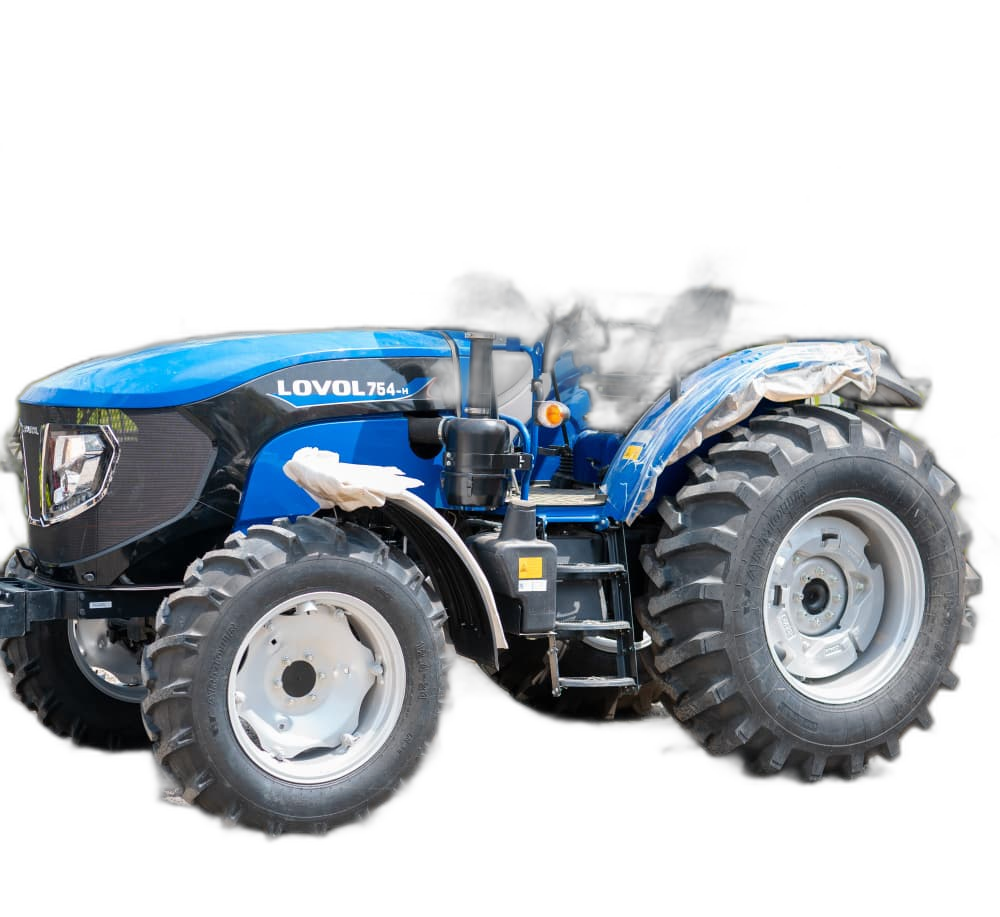
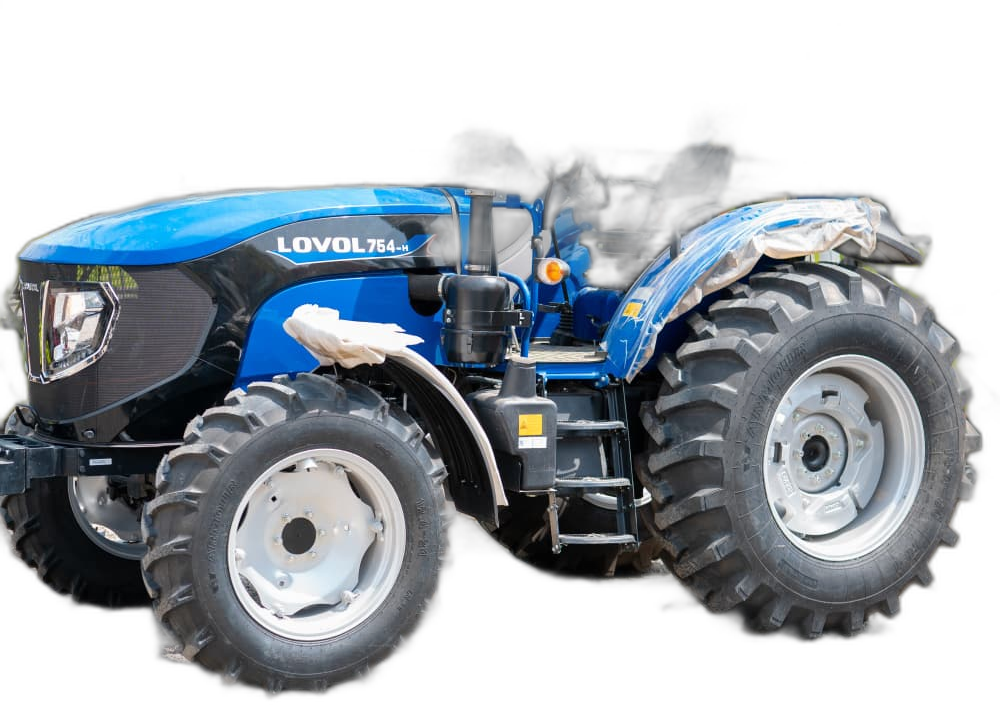
design: increase machinery slideshow size, use red active indicator, and set cleaner aerial background image to avoid tractor clashes

diff --git a/frontend/src/screens/Home.js b/frontend/src/screens/Home.js
@@ -95,7 +95,7 @@ export function renderHomeScreen() {
     .hero-visual {
       position: relative;
       width: 100%;
-      height: 420px;
+      height: 480px;
       display: flex;
       justify-content: center;
       align-items: center;
@@ -103,8 +103,8 @@ export function renderHomeScreen() {
     
     .machinery-shadow {
       position: absolute;
-      bottom: 25px;
-      width: 85%;
+      bottom: 10px;
+      width: 90%;
       height: 25px;
       background: radial-gradient(ellipse, rgba(59, 130, 246, 0.45) 0%, rgba(3, 7, 18, 0) 70%);
       filter: blur(8px);
@@ -114,8 +114,8 @@ export function renderHomeScreen() {
     
     .visual-slide {
       position: absolute;
-      width: 100%;
-      max-width: 520px;
+      width: 110%;
+      max-width: 640px;
       height: auto;
       object-fit: contain;
       opacity: 0;
@@ -167,8 +167,8 @@ export function renderHomeScreen() {
     }
     
     .view-dot:hover, .view-dot.active {
-      color: #3b82f6;
-      text-shadow: 0 0 8px rgba(59, 130, 246, 0.6);
+      color: #dc2626;
+      text-shadow: 0 0 8px rgba(220, 38, 38, 0.6);
     }
     
     /* Action Buttons */
@@ -691,11 +691,11 @@ export function renderHomeScreen() {
   const heroSec = document.createElement('section');
   heroSec.className = 'hero-sec';
   
-  // Dynamic Background Images fading behind the green gradient overlay
+  // Dynamic Background Images fading behind the gradient overlay
   const bgImages = [
-    '/assets/hero.png',
+    '/assets/portfolio_aerial.png',
     '/assets/gallery_farmers.png',
-    '/assets/portfolio_aerial.png'
+    '/assets/about_hero.png'
   ];
   let currentBgIndex = 0;
   heroSec.style.backgroundImage = `url(${bgImages[currentBgIndex]})`;
